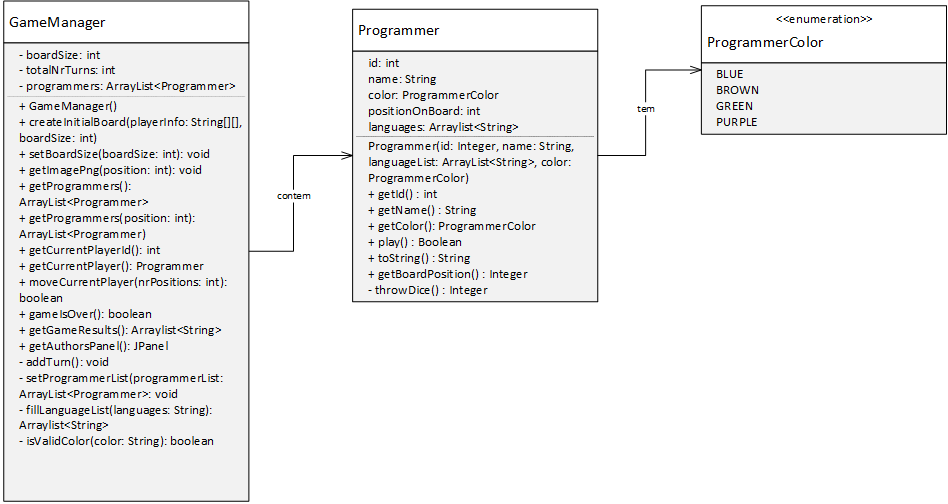
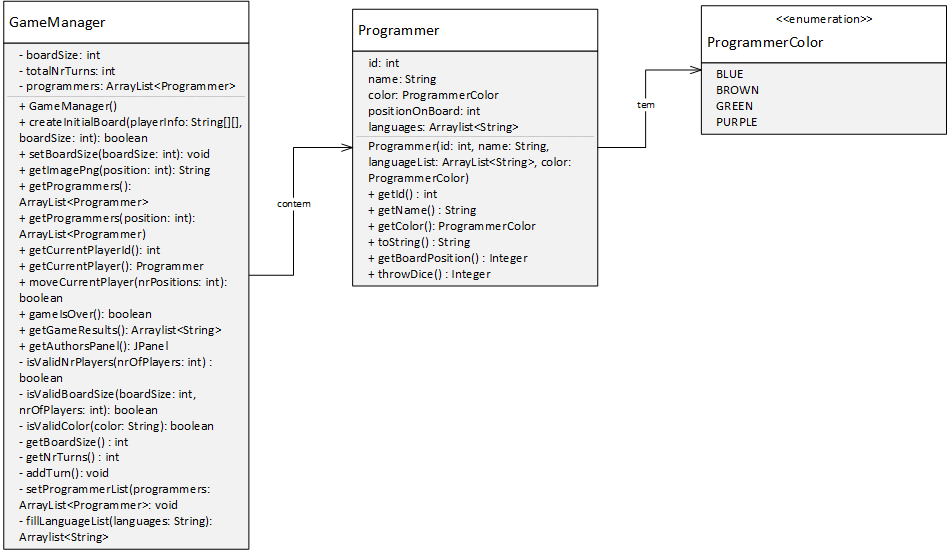
Version 2021-11-13 RF - Rebase

diff --git a/src/pt/ulusofona/lp2/deisiGreatGame/GameManager.java b/src/pt/ulusofona/lp2/deisiGreatGame/GameManager.java
@@ -11,6 +11,9 @@ Represents the Game board Manager
  */
 public class GameManager {
 
+    //###########
+    //ATTRIBUTES
+
     /*
     Board size
      */
@@ -45,9 +48,16 @@ public class GameManager {
             return false;
         }
 
-        //check number of players and board size before validation
+        //calculate nr of players
         int numberOfPlayers = playerInfo.length;
-        if(numberOfPlayers<2 || numberOfPlayers>4 || boardSize<numberOfPlayers* 2){
+
+        //check number of players
+        if (!isValidNrPlayers(numberOfPlayers)) {
+            return false;
+        }
+
+        //check board size
+        if (!isValidBoardSize(boardSize, numberOfPlayers)) {
             return false;
         }
 
@@ -57,7 +67,7 @@ public class GameManager {
         //iterate over matrix
         //each row represents a player
         int playerRow;
-        for (playerRow = 0; playerRow < playerInfo.length; playerRow++)
+        for (playerRow = 0; playerRow < numberOfPlayers; playerRow++)
         {
             //Id
             int id;
@@ -196,19 +206,16 @@ public class GameManager {
     public Programmer getCurrentPlayer()
     {
         //fetch programmer list
-        ArrayList<Programmer> programmerArrayList = getProgrammerList();
+        ArrayList<Programmer> programmerArrayList = getProgrammers();
 
+        //calculate number of players
         int nrPlayers = programmerArrayList.size();
 
         //nr turns
         int nrTurns = getNrTurns();
 
-        //calculate current player
-        int index = 0;
-        if(nrTurns>0)
-        {
-            index = nrTurns % nrPlayers;
-        }
+        //calculate current player index
+        int index = nrTurns % nrPlayers;
 
         //return current player
         return programmerArrayList.get(index);
@@ -235,15 +242,8 @@ public class GameManager {
         //calculate new current player position
         int newPosition = currentPlayerPosition+nrPositions;
 
-        //check max position logic
-        if(newPosition>boardSize)
-        {
-            currentPlayer.setBoardPosition(boardSize-(newPosition-boardSize));
-        }
-        else
-        {
-            currentPlayer.setBoardPosition(newPosition);
-        }
+        //set position
+        currentPlayer.setBoardPosition(newPosition>boardSize ? (boardSize-(newPosition-boardSize)) : newPosition);
 
         //add turn to game turns
         addTurn();
@@ -334,6 +334,24 @@ public class GameManager {
     //PRIVATE METHODS
 
     /*
+    Validate number of Players: [2,4]
+    */
+    private boolean isValidNrPlayers(int nrOfPlayers) {
+
+        return (nrOfPlayers>1 && nrOfPlayers<5);
+
+    }
+
+    /*
+    Validate Board Size: >nrOfPlayers* 2
+    */
+    private boolean isValidBoardSize(int boardSize, int nrOfPlayers) {
+
+        return (boardSize>nrOfPlayers* 2);
+
+    }
+
+    /*
     Returns Board Size
      */
     private int getBoardSize() {
@@ -359,20 +377,12 @@ public class GameManager {
     Orders Programmer List by Id Ascending
     Set Programmer List
      */
-    private void setProgrammerList(ArrayList<Programmer> programmerList)
+    private void setProgrammerList(ArrayList<Programmer> programmers)
     {
         //order list by id ascending
-        programmerList.sort(Comparator.comparing(Programmer::getId));
-        //fill attribute
-        this.programmers=programmerList;
-    }
-
-    /*
-    Get Programmer List
-     */
-    private ArrayList<Programmer> getProgrammerList()
-    {
-        return this.programmers;
+        programmers.sort(Comparator.comparing(Programmer::getId));
+        //fill programmers
+        this.programmers=programmers;
     }
 
     /*

diff --git a/src/pt/ulusofona/lp2/deisiGreatGame/Programmer.java b/src/pt/ulusofona/lp2/deisiGreatGame/Programmer.java
@@ -2,9 +2,10 @@ package pt.ulusofona.lp2.deisiGreatGame;
 //Imports
 import java.util.ArrayList;
 import java.util.Collections;
+import java.util.Random;
 
 /*
-Player set game color
+Player game color
 */
 enum ProgrammerColor
 {
@@ -17,7 +18,7 @@ enum ProgrammerColor
 
     @Override
     public String toString() {
-        return cor;
+        return this.cor;
     }
 }
 
@@ -26,6 +27,9 @@ Represents a programmer
  */
 public class Programmer
 {
+    //###########
+    //ATTRIBUTES
+
     /*
     Identifies programmer Id
      */
@@ -54,6 +58,14 @@ public class Programmer
     //################
     //Constructor
     //################
+
+    /*
+    Constructor por programmer:
+    id: programmer id
+    name: programmer name
+    languageList: preferred programmer programming languages
+    color: programmer color
+     */
     Programmer(int id, String name, ArrayList<String> languageList, ProgrammerColor color)
     {
         this.id = id;
@@ -68,28 +80,28 @@ public class Programmer
     //#################
 
     /*
-    Returns programmer Id
+    Return programmer Id
      */
     public int getId(){
         return this.id;
     }
 
     /*
-    Returns programmer Name
+    Return programmer Name
      */
     public String getName(){
         return this.name;
     }
 
     /*
-    Returns programmer Color
+    Return programmer Color
      */
     public ProgrammerColor getColor(){
         return this.color;
     }
 
     /*
-    Returns programmer string
+    Return programmer custom string
     <id> | <nome> | <position> | <languages> | <status>
      */
     @Override
@@ -116,16 +128,32 @@ public class Programmer
     }
 
     /*
-    Returns player game board position
+    Return player game position on board
      */
     public Integer getBoardPosition() {
         return this.positionOnBoard;
     }
 
     /*
-    Set player game board position
+    Set player game position on board
      */
     public void setBoardPosition(Integer newPosition) {
         this.positionOnBoard=newPosition;
+    }
+
+    //#################
+    //Private Methods
+    //#################
+
+    /*
+    Throw dice to calculate number of positions to move
+    Result must be [1,6]
+     */
+    public Integer throwDice()
+    {
+        Random rand = new Random();
+        Integer min = 1;
+        Integer max = 6;
+        return rand.nextInt(max) + min;
     }
 }

diff --git a/src/pt/ulusofona/lp2/deisiGreatGame/TestGameManager.java b/src/pt/ulusofona/lp2/deisiGreatGame/TestGameManager.java
@@ -30,8 +30,12 @@ public class TestGameManager {
 
         Programmer programmerToTest = game1.getCurrentPlayer();
 
-        int nrPositionsToMove = 4;
+        //generate positions to move
+        int nrPositionsToMove = programmerToTest.throwDice();
+
         game1.moveCurrentPlayer(nrPositionsToMove);
+
+
 
         assertTrue("CheckPlayerPosition",programmerToTest.getBoardPosition() == 5);
     }
